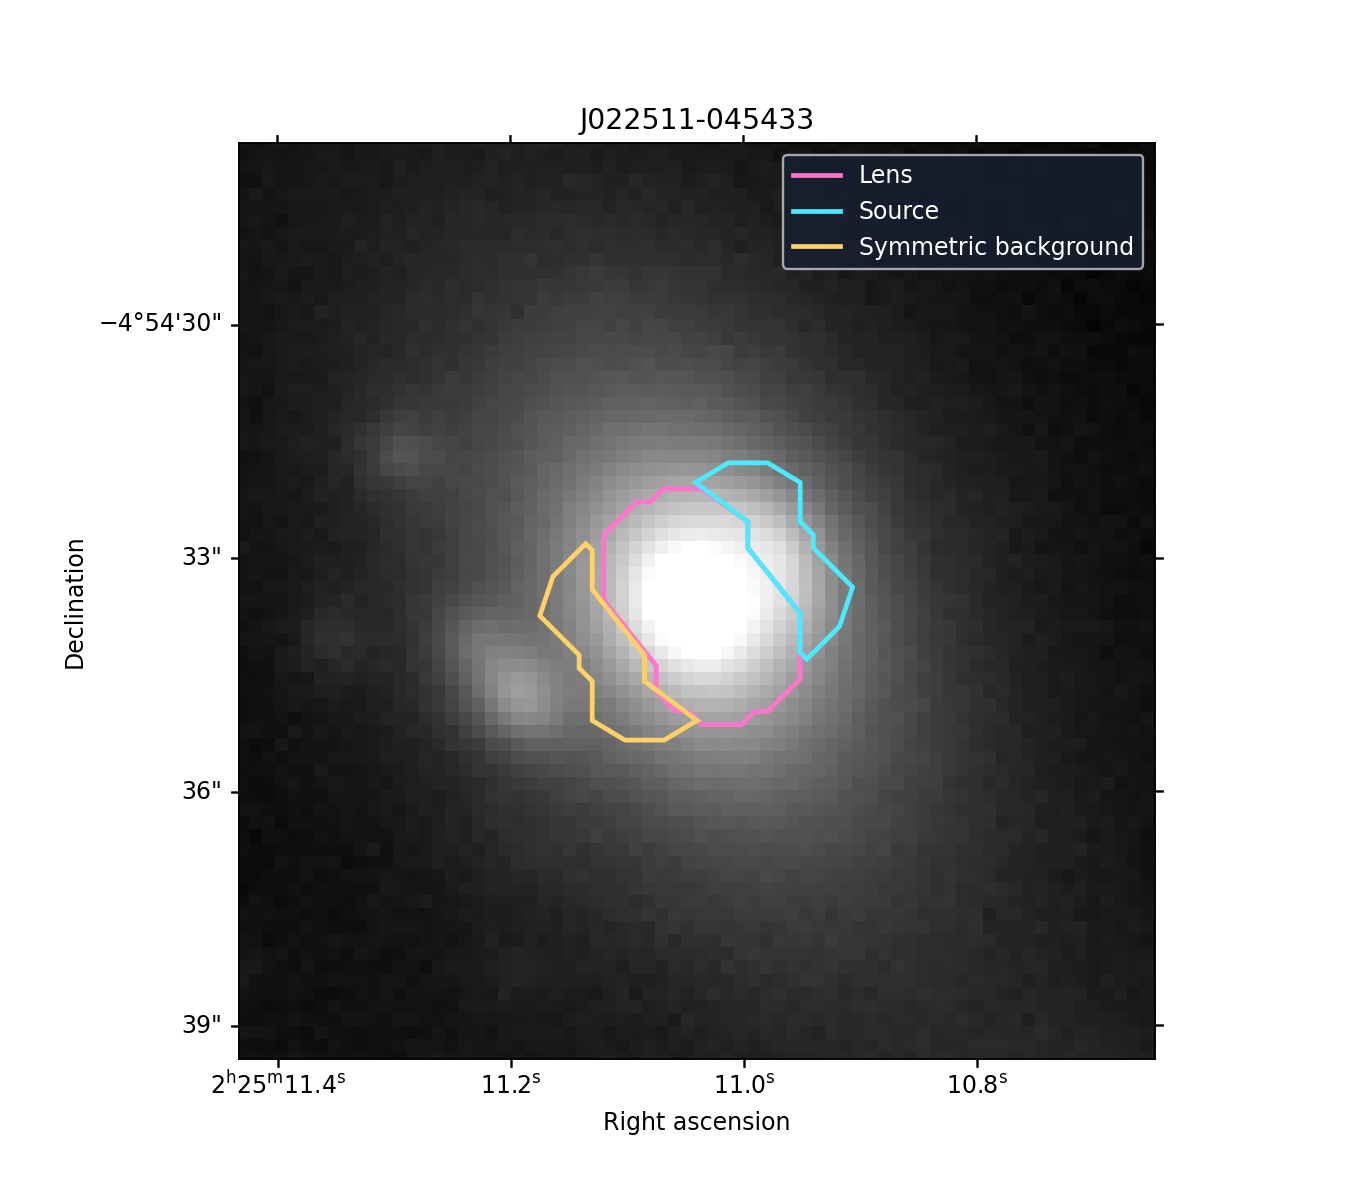
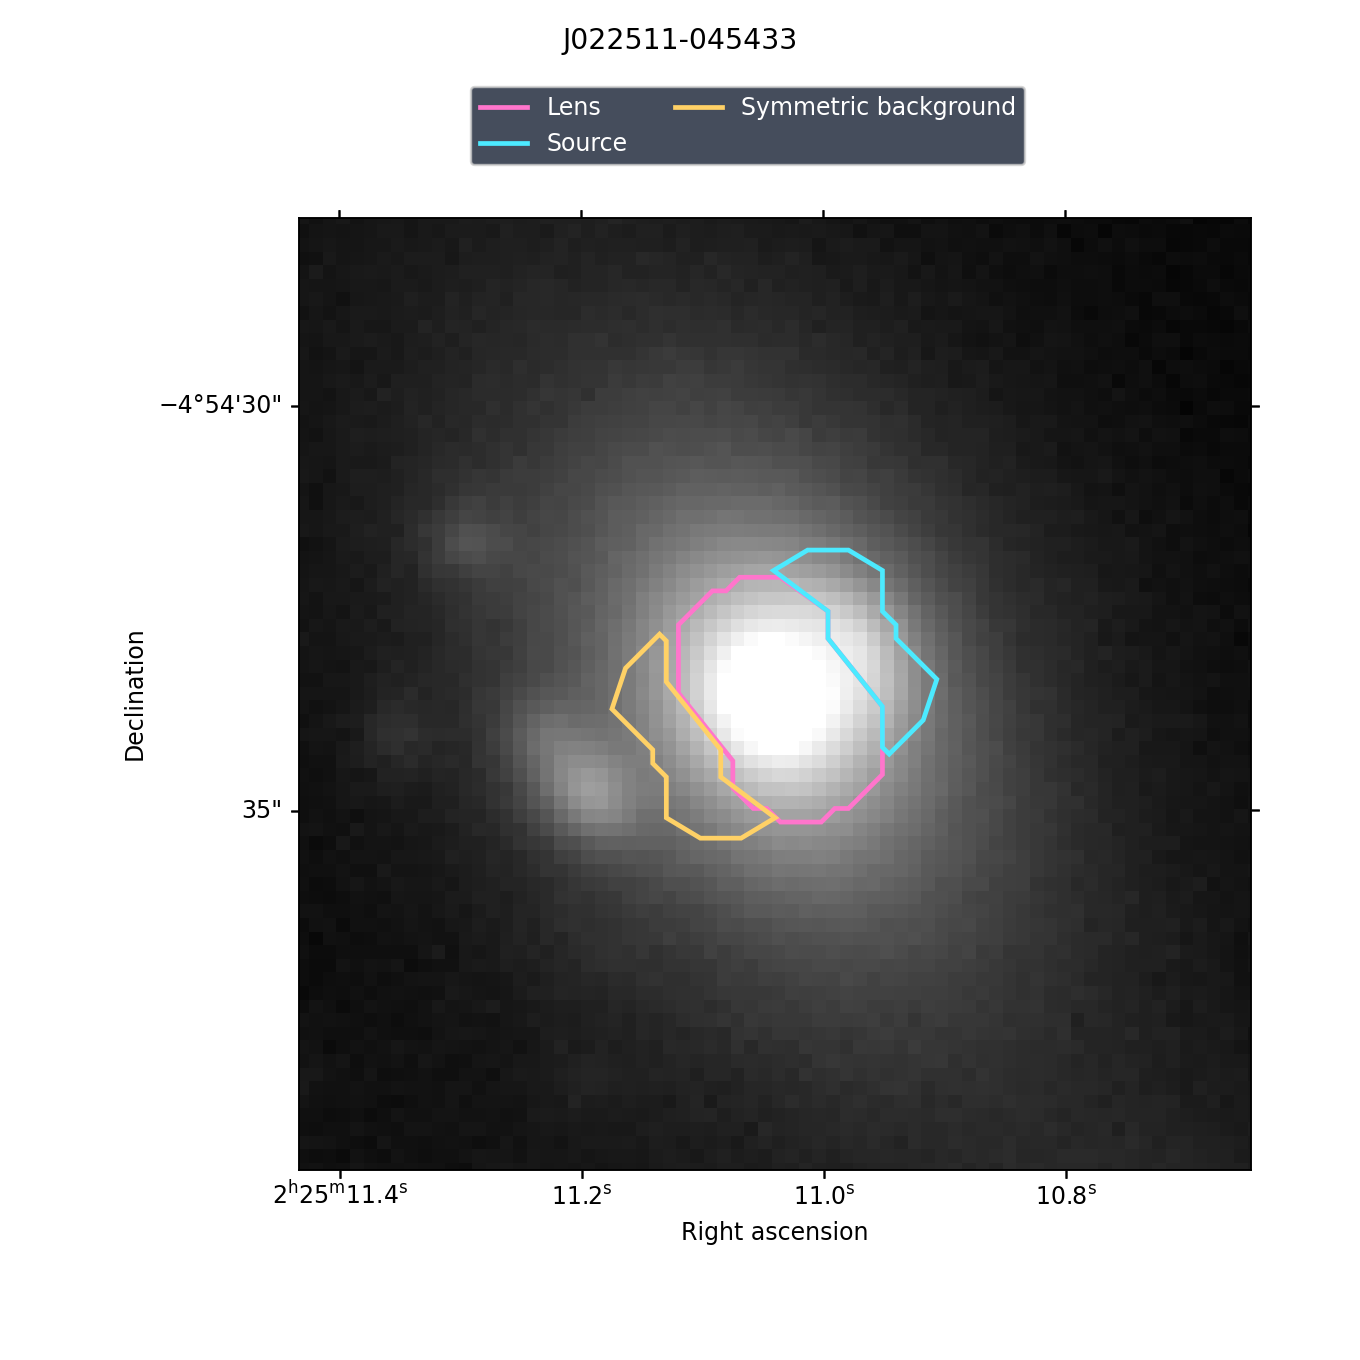
Fix WCS region plot layout and show satellite apertures

diff --git a/index.html b/index.html
@@ -6,6 +6,6 @@
 <section id="detail" hidden><a class="back" href="#">← All systems</a><div class="system-heading"><img id="detail-mugshot" alt="System mugshot"><div><div class="eyebrow">SYSTEM WORKSPACE</div><h1 id="system-name"></h1><p id="system-subtitle"></p><div id="system-tags" class="tags"></div></div></div><div id="facts" class="facts"></div>
 <p id="input-status" class="notice" hidden></p><div class="workflow-heading"><h2>Analysis workflow</h2><p>Inspect the included results or run a stage to update them. Tasks run one at a time.</p></div>
 <article class="stage" data-stage="modeling"><div class="stage-head"><div class="stage-title"><span class="step">01</span><div><h2>1.lens-modeling</h2><p>MGE lens light, mass model and reconstructed source</p></div></div><a class="notebook" href="1.lens-modeling/J022511-045433.ipynb" download>Notebook ↓</a></div><div class="actions"><button data-run="modeling">Rebuild model &amp; plot</button><button class="secondary" data-fit>Refit all model stages</button><span class="status" data-status="modeling">Included results</span><button class="cancel" data-cancel="modeling" hidden>Stop</button></div><p class="hint">Rebuild evaluates the saved maximum-likelihood model. Refit runs the parameter search and may take substantially longer.</p><div class="tabs" id="model-tabs"></div><a id="model-link" target="_blank" rel="noopener"><img id="model-image" class="result-image" alt="AutoLens FitImaging subplot"></a><details><summary>Task output</summary><pre data-log="modeling">Ready.</pre></details></article>
-<article class="stage" data-stage="regions"><div class="stage-head"><div class="stage-title"><span class="step">02</span><div><h2>2.region-detection</h2><p>Lens, source and point-reflected background apertures</p></div></div><a class="notebook" href="2.region-detection/J022511-045433.ipynb" download>Notebook ↓</a></div><div class="actions"><button data-run="regions">Run region detection</button><button id="toggle-regions" class="secondary" aria-pressed="true" aria-controls="regions-image">Hide region outlines</button><span class="status" data-status="regions">Included results</span><button class="cancel" data-cancel="regions" hidden>Stop</button></div><a id="regions-link" target="_blank" rel="noopener"><img id="regions-image" class="result-image region-image" alt="Lens, source and symmetric background regions"></a><details><summary>Task output</summary><pre data-log="regions">Ready.</pre></details></article>
+<article class="stage" data-stage="regions"><div class="stage-head"><div class="stage-title"><span class="step">02</span><div><h2>2.region-detection</h2><p>Lens, source, point-reflected background and satellite apertures</p></div></div><a class="notebook" href="2.region-detection/J022511-045433.ipynb" download>Notebook ↓</a></div><div class="actions"><button data-run="regions">Run region detection</button><button id="toggle-regions" class="secondary" aria-pressed="true" aria-controls="regions-image">Hide region outlines</button><span class="status" data-status="regions">Included results</span><button class="cancel" data-cancel="regions" hidden>Stop</button></div><a id="regions-link" target="_blank" rel="noopener"><img id="regions-image" class="result-image region-image" alt="Lens, source, symmetric background and available satellite regions"></a><details><summary>Task output</summary><pre data-log="regions">Ready.</pre></details></article>
 <article class="stage" data-stage="photoz"><div class="stage-head"><div class="stage-title"><span class="step">03</span><div><h2>3.photometric-estimation</h2><p>Multi-band aperture photometry and BCNz redshift distributions</p></div></div><a class="notebook" href="3.photometric-estimation/J022511-045433.ipynb" download>Notebook ↓</a></div><div class="actions"><button data-run="photoz">Run photometry &amp; photo-z</button><span class="status" data-status="photoz">Included results</span><button class="cancel" data-cancel="photoz" hidden>Stop</button></div><a id="flux-link" target="_blank" rel="noopener"><img id="flux-image" class="result-image" alt="Measured lens and source fluxes with best-fit SEDs"></a><div class="actions"><button id="toggle-specz" class="secondary" aria-pressed="false" aria-controls="pz-image">Show lens/source spec-z</button></div><a id="pz-link" target="_blank" rel="noopener"><img id="pz-image" class="result-image" alt="Lens and source photometric redshift probability distributions"></a><details><summary>Task output</summary><pre data-log="photoz">Ready.</pre></details></article>
 </section></main><footer>Photo-lens · PAUS narrow-band + broad-band imaging · <a href="catalogue/Combined_lens_info_V2_filtered_zs_lt2_field.html">Browse the reference catalogue</a></footer><script src="web/systems.js"></script><script src="web/app.js"></script></body></html>

diff --git a/web/app.js b/web/app.js
@@ -139,7 +139,7 @@ $('#toggle-regions').onclick=()=>{
   showRegionOutlines=!showRegionOutlines;
   $('#toggle-regions').textContent=showRegionOutlines?'Hide region outlines':'Show region outlines';
   $('#toggle-regions').setAttribute('aria-pressed',String(showRegionOutlines));
-  $('#regions-image').alt=showRegionOutlines?'Lens, source and symmetric background regions':'System image without region outlines';
+  $('#regions-image').alt=showRegionOutlines?'Lens, source, symmetric background and available satellite regions':'System image without region outlines';
   refresh('regions',true);
 };
 $('#toggle-specz').onclick=()=>{

diff --git a/photo_lens/visuals.py b/photo_lens/visuals.py
@@ -9,25 +9,49 @@ def plot_regions(name):
     from astropy.visualization import ImageNormalize, PercentileInterval, AsinhStretch
     from regions import Regions
     import json
-    cfg = json.loads((ROOT / system_record(name)['model_config']).read_text())
+    record = system_record(name)
+    cfg = json.loads((ROOT / record['model_config']).read_text())
     base = ROOT / '1.lens-modeling' / name
     with fits.open((base / cfg['science_cutout']).resolve()) as h:
         data = np.asarray(h[cfg['science_hdu']].data, float)
         wcs = WCS(h[cfg['science_hdu']].header).celestial
-    fig, ax = plt.subplots(figsize=(8, 7), subplot_kw={'projection':wcs})
+    # WCS tick-label extents can make tight_layout collapse the plotting area
+    # for some sky positions. Reserve fixed space for axes and an outer legend.
+    fig, ax = plt.subplots(figsize=(8, 8), subplot_kw={'projection':wcs})
+    fig.subplots_adjust(left=0.17, right=0.97, bottom=0.14, top=0.84)
     ax.imshow(data, origin='lower', cmap='gray', norm=ImageNormalize(data, interval=PercentileInterval(99.5), stretch=AsinhStretch()))
     folder = ROOT / '2.region-detection/regions' / name
     from matplotlib.lines import Line2D
-    handles, outlines = [], []
-    for kind, color, label in [('lens','#ff75cc','Lens'),('source','#4ceaff','Source'),('background','#ffd166','Symmetric background')]:
-        for region in Regions.read(folder / f'{name}_{kind}_point_fraction040.reg', format='ds9'):
-            outlines.append(region.to_pixel(wcs).plot(ax=ax, facecolor='none', edgecolor=color, linewidth=2))
+    handles, outlines, pixel_regions = [], [], []
+    selections = [(folder / f'{name}_{kind}_point_fraction040.reg', color, label)
+                  for kind, color, label in [('lens','#ff75cc','Lens'),('source','#4ceaff','Source'),('background','#ffd166','Symmetric background')]]
+    satellite_path = folder / f'{name}_satellites_point_fraction.reg'
+    if satellite_path.is_file():
+        selections.append((satellite_path, '#ff675f', 'Satellite'))
+    for path, color, label in selections:
+        regions = list(Regions.read(path, format='ds9'))
+        if not regions:
+            continue
+        for region in regions:
+            pixel_region = region.to_pixel(wcs)
+            pixel_regions.append(pixel_region)
+            outlines.append(pixel_region.plot(ax=ax, facecolor='none', edgecolor=color, linewidth=2))
         handles.append(Line2D([0],[0],color=color,label=label,lw=2))
-    x,y = wcs.world_to_pixel_values(system_record(name)['ra'], system_record(name)['dec'])
-    ax.set_xlim(x-35,x+35);ax.set_ylim(y-35,y+35)
-    ax.set_xlabel('Right ascension');ax.set_ylabel('Declination');ax.set_title(name)
-    legend = ax.legend(handles=handles,loc='upper right',facecolor='#172033',labelcolor='white')
-    fig.tight_layout();fig.savefig(folder / f'{name}_regions.png',dpi=170)
+    x,y = wcs.world_to_pixel_values(record['ra'], record['dec'])
+    half_size = 35.0
+    for region in pixel_regions:
+        box = region.bounding_box
+        half_size = max(half_size, abs(box.ixmin-x)+4, abs(box.ixmax-x)+4,
+                        abs(box.iymin-y)+4, abs(box.iymax-y)+4)
+    ax.set_xlim(x-half_size,x+half_size);ax.set_ylim(y-half_size,y+half_size)
+    for coordinate in ax.coords:
+        coordinate.set_ticks(number=4)
+        coordinate.set_ticklabel(size=10, exclude_overlapping=True)
+    ax.set_xlabel('Right ascension');ax.set_ylabel('Declination')
+    fig.suptitle(name, y=0.98)
+    legend = fig.legend(handles=handles, loc='upper center', bbox_to_anchor=(0.55,0.945),
+                        ncol=2, facecolor='#172033', labelcolor='white', fontsize=10)
+    fig.savefig(folder / f'{name}_regions.png',dpi=170)
     for outline in outlines:
         outline.set_visible(False)
     legend.set_visible(False)

diff --git a/2.region-detection/apply_point_fraction_selection.py b/2.region-detection/apply_point_fraction_selection.py
@@ -446,6 +446,9 @@ def analyse(module, system: str) -> dict:
             out / f"{system}_satellites_point_fraction.reg", [satellite], source,
             ["satellite_exclusion"], ["red"],
         )
+    else:
+        # Do not display a satellite aperture left by an earlier detection run.
+        (out / f"{system}_satellites_point_fraction.reg").unlink(missing_ok=True)
 
     plot_system(
         system, raw, raw_header, source, source.data, components, primary_index,
